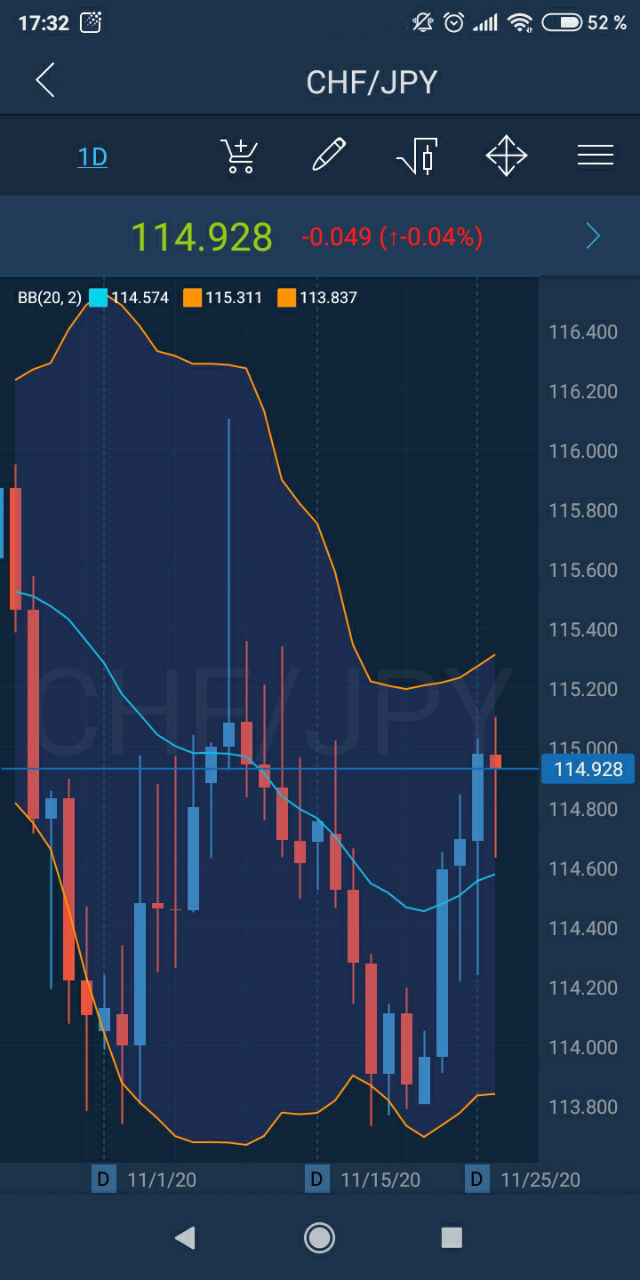
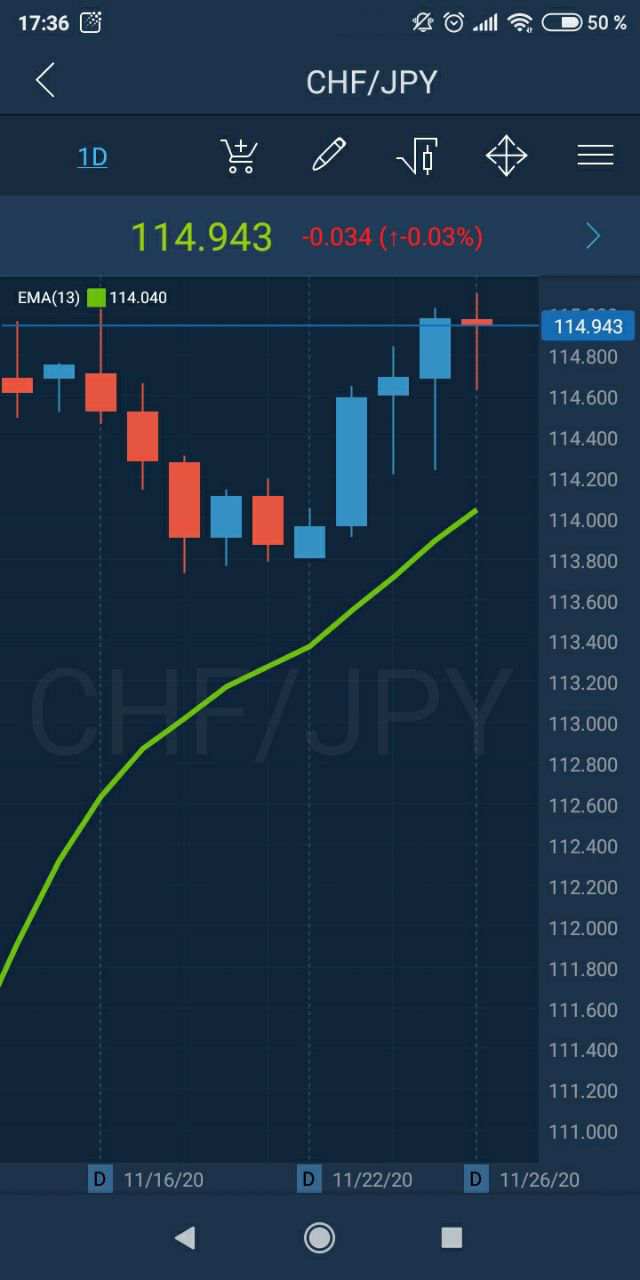
GitBook: [master] 4 pages and 3 assets modified

diff --git a/mobile-applications/phone/android/technical-indicators/moving-averages/ema-exponential-moving-average.md b/mobile-applications/phone/android/technical-indicators/moving-averages/ema-exponential-moving-average.md
@@ -1,0 +1,33 @@
+# EMA \(Exponential moving average\)
+
+The Exponential moving average is a ****type of moving average that is similar to a simple moving average, except that more weight is given to the latest data. The Exponential moving average is also known as the "Exponentially weighted moving average". 
+
+The Exponential moving average can be used as a crossover system. For a crossover system, the user can insert three different Exponential moving averages. Typically, the lengths of these Moving averages are short-term, intermediate, and long-term. The commonly used system is 4, 9, and 18 intervals or periods. The interval can be in ticks, minutes, days, weeks, or months; it is a function of the chart period.
+
+Moving averages work best in trending markets. A buy signal occurs when the short-term and intermediate-term averages cross from upward above the longer-term average. Conversely, a sell signal is issued when the short-term and intermediate-term averages cross from above to below the longer-term average. The user can utilize the same two Moving average signals, but most market technicians suggest using longer-term averages when trading only two Exponential moving averages in a crossover system.
+
+Another trading approach is to use the current price concept. If the current price is above the Exponential moving averages, you buy. Liquidate this position when the current price crosses below either Moving average. For a short position, sell when the current price is below the Exponential moving average. Liquidate that position when the current price rises above the Exponential Moving Averages.
+
+### Calculation
+
+An exponentially smoothed Moving average is calculated by adding a certain share of the current closing price to the previous moving average value. With exponentially smoothed Moving averages, recent close prices are of more value. P-percent exponential moving average will look like this:
+
+EMA = \(CLOSE \(i\) \* P\) + \(EMA \(i - 1\) \* \(1 - P\)\)
+
+Where:
+
+CLOSE \(i\) — current period close price;
+
+EMA \(i - 1\) — value of the Moving Average of a preceding period;
+
+P — the percentage of using the price value.
+
+### Main parameters
+
+* Interval: EMA interval, 13 by default;
+* Apply to: Close, Open, High, Low, Median, Typical, and Weighted.
+
+This technical indicator looks as follows on the chart:
+
+![](../../../../../.gitbook/assets/3%20%285%29.jpg)
+

diff --git a/SUMMARY.md b/SUMMARY.md
@@ -195,6 +195,8 @@
           * [BB \(Bollinger bands\)](mobile-applications/phone/android/technical-indicators/channels/bb-bollinger-bands.md)
           * [Price channel](mobile-applications/phone/android/technical-indicators/channels/price-channel.md)
           * [BBF \(Bollinger bands flat\)](mobile-applications/phone/android/technical-indicators/channels/bbf-bollinger-bands-flat.md)
+        * [Moving averages](mobile-applications/phone/android/technical-indicators/moving-averages/README.md)
+          * [EMA \(Exponential moving average\)](mobile-applications/phone/android/technical-indicators/moving-averages/ema-exponential-moving-average.md)
       * [Order entry](mobile-applications/phone/android/order-entry.md)
       * [Orders](mobile-applications/phone/android/orders.md)
       * [Trading ideas](mobile-applications/phone/android/trading-ideas.md)

diff --git a/mobile-applications/phone/android/technical-indicators/channels/bb-bollinger-bands.md b/mobile-applications/phone/android/technical-indicators/channels/bb-bollinger-bands.md
@@ -55,7 +55,7 @@ It is recommended to use 20-period Simple Moving Average as the middle line, and
 
 The indicator looks as follows on the chart:
 
-![](../../../../../.gitbook/assets/1%20%284%29.jpg)
+![](../../../../../.gitbook/assets/1%20%285%29.jpg)
 
 
 

diff --git a/mobile-applications/phone/android/technical-indicators/moving-averages/README.md b/mobile-applications/phone/android/technical-indicators/moving-averages/README.md
@@ -1,0 +1,2 @@
+# Moving averages
+
